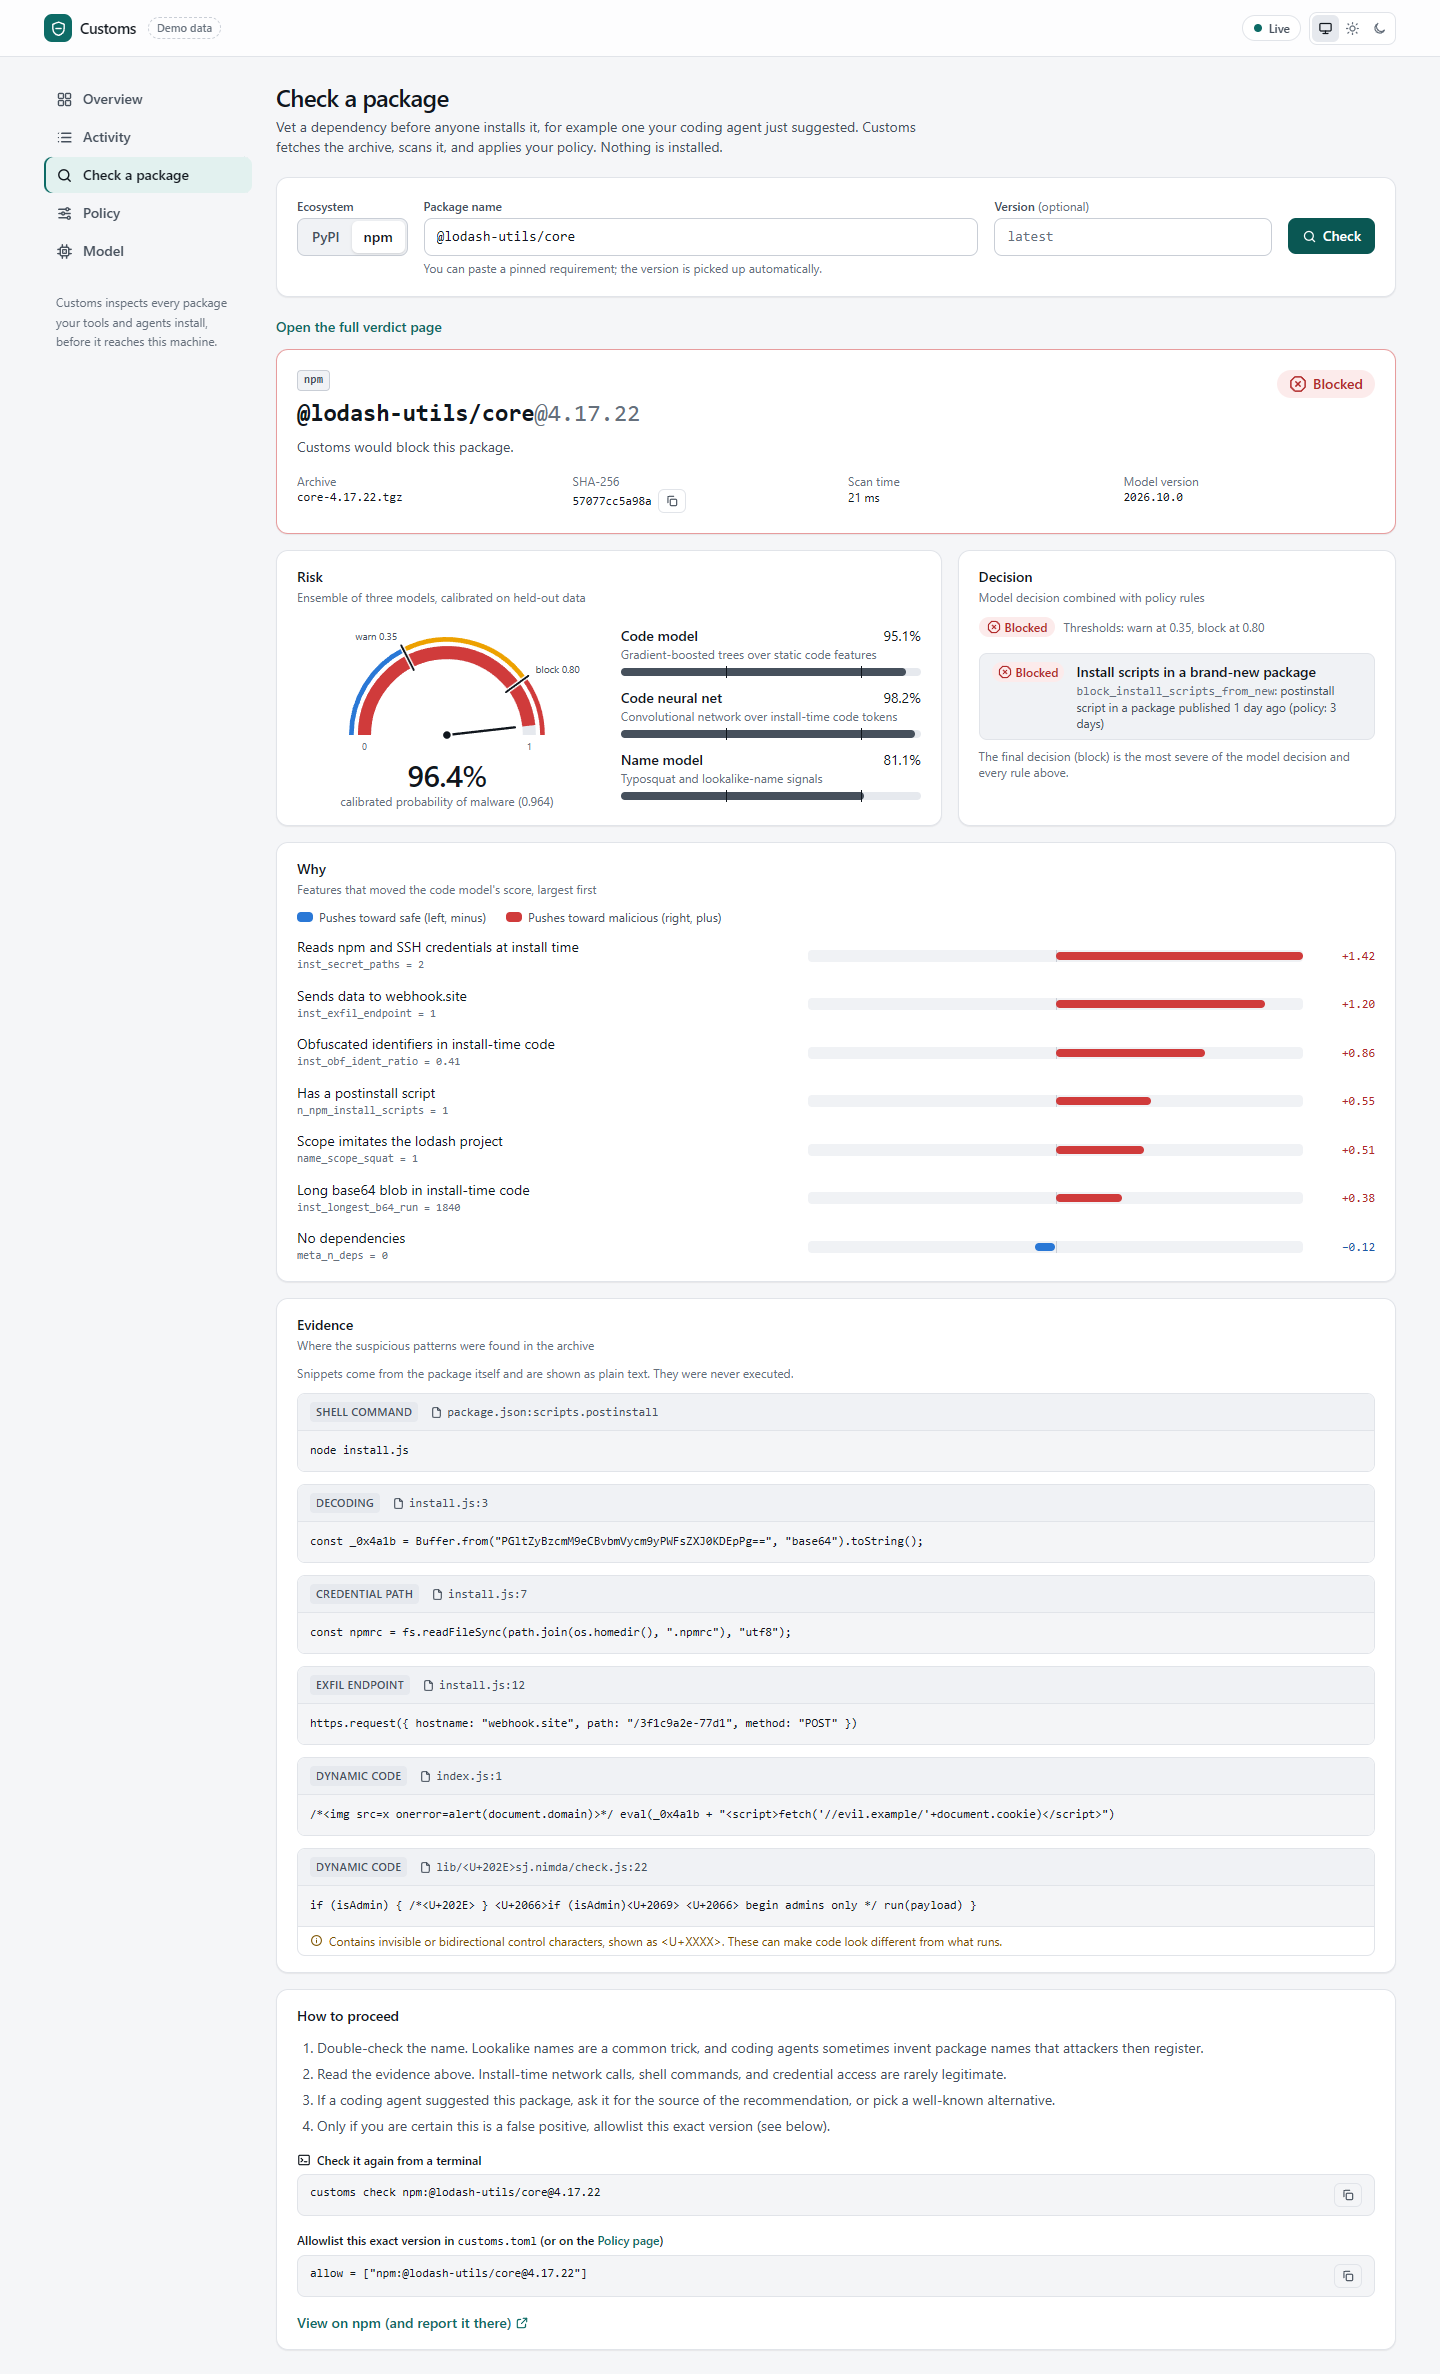
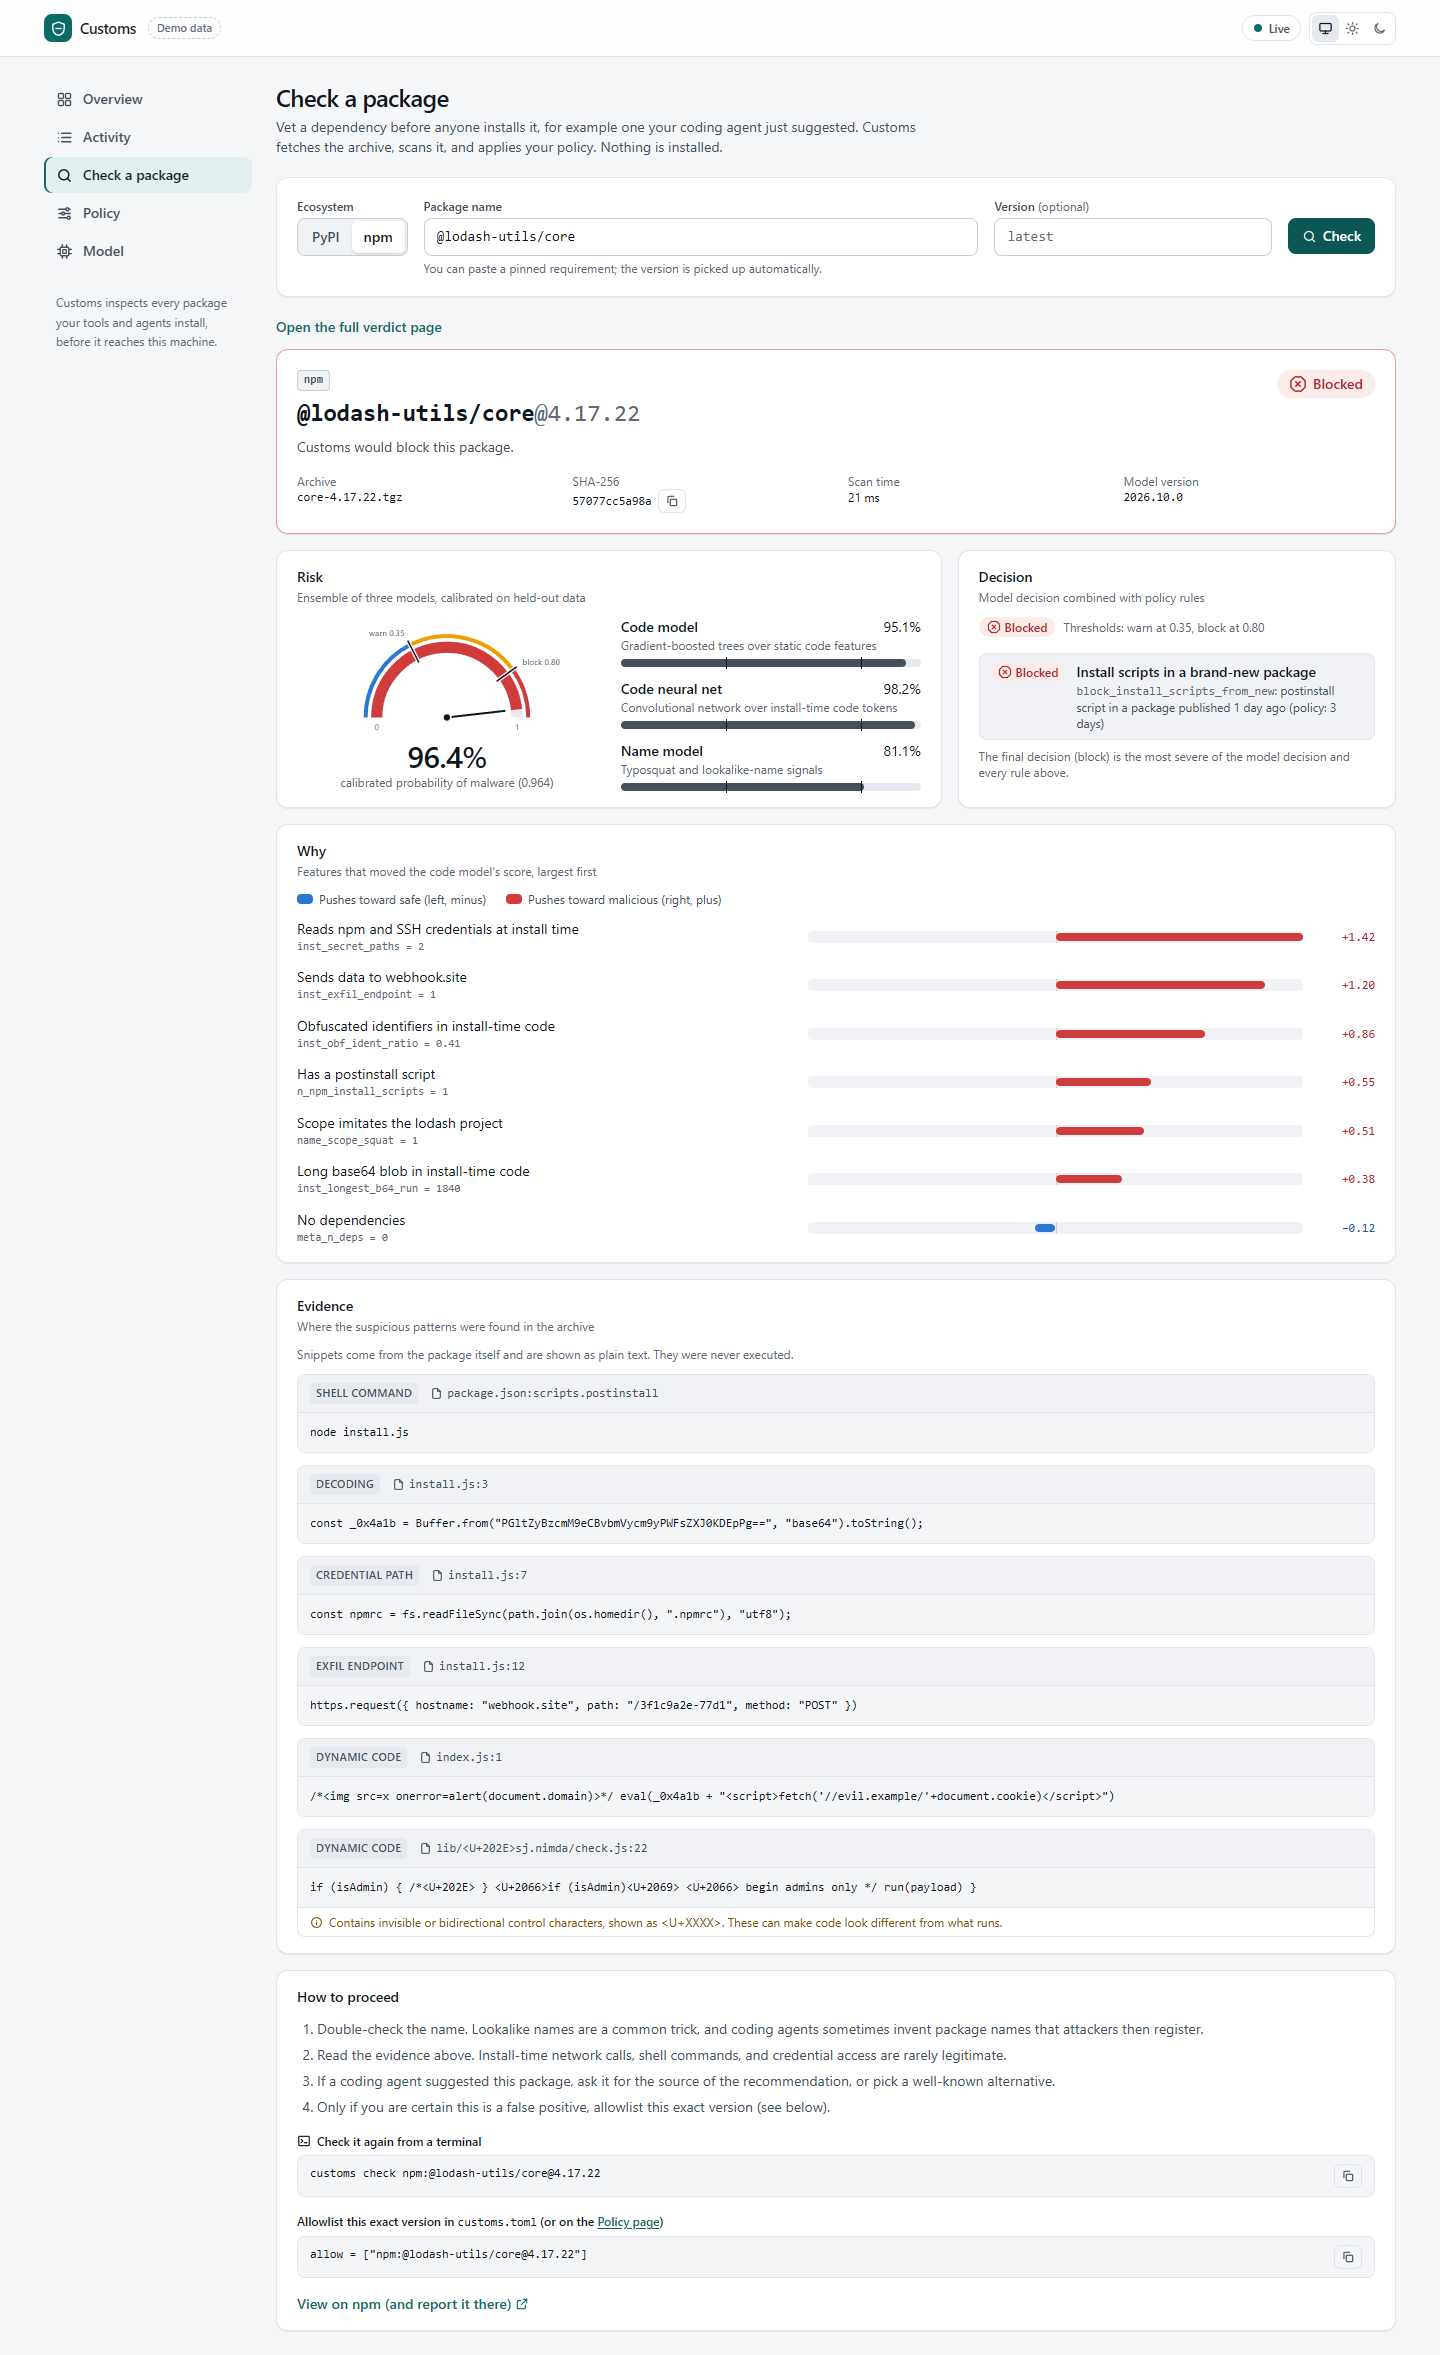
README media: new screenshots and demo GIF from a live customs serve
Screenshots (overview, verdict, check, model, light and dark) and the demo GIF are
recaptured after the dashboard UI changes. live-screenshots.mjs shoots the Check page
instead of Activity, and demo-gif.mjs records the dashboard as timed screencast frames.
The web/screenshots set is regenerated from the e2e spec, and the mock policy-change
address is now TEST-NET-1 (192.0.2.12). README alt text matches what the media shows.

diff --git a/web/src/mock/server.ts b/web/src/mock/server.ts
@@ -111,7 +111,7 @@ export class MockServer {
       {
         id: 1,
         ts: new Date(now - 6 * day).toISOString(),
-        remote: '10.0.4.12',
+        remote: '192.0.2.12',
         client: 'Mozilla/5.0',
         auth: 'token',
         changes: [{ field: 'deny', before: [], after: ['npm:event-stream@3.3.6'] }],
@@ -119,7 +119,7 @@ export class MockServer {
       {
         id: 2,
         ts: new Date(now - 2 * day).toISOString(),
-        remote: '10.0.4.12',
+        remote: '192.0.2.12',
         client: 'Mozilla/5.0',
         auth: 'token',
         changes: [

diff --git a/README.md b/README.md
@@ -25,8 +25,8 @@ dashboard on one port.
 
 <table>
 <tr>
-<td width="50%"><picture><source media="(prefers-color-scheme: dark)" srcset="docs/media/overview-dark.png"><img alt="Overview page: today's installs and checks, the block rate, decisions by ecosystem, and the live feed with a blocked package at the top" src="docs/media/overview-light.png"></picture></td>
-<td width="50%"><picture><source media="(prefers-color-scheme: dark)" srcset="docs/media/verdict-dark.png"><img alt="Verdict page for a blocked malware package: the risk gauge past the block threshold, the rules and model features behind the score, and the install-time code that triggered them" src="docs/media/verdict-light.png"></picture></td>
+<td width="50%"><picture><source media="(prefers-color-scheme: dark)" srcset="docs/media/overview-dark.png"><img alt="Overview page: installs scanned, blocks and possible slopsquats, blocked installs per day, decisions by ecosystem, and the live feed with pip and npm installs, a blocked npm package and two lookups of the made-up name reqeusts" src="docs/media/overview-light.png"></picture></td>
+<td width="50%"><picture><source media="(prefers-color-scheme: dark)" srcset="docs/media/verdict-dark.png"><img alt="Verdict page for colors-helper-utils, an npm package that steals credentials at install time, blocked at a risk above 99.9%: the three model scores, the features behind the score, and the lines of setup.js that triggered them" src="docs/media/verdict-light.png"></picture></td>
 </tr>
 <tr>
 <td width="50%"><picture><source media="(prefers-color-scheme: dark)" srcset="docs/media/check-dark.png"><img alt="Check page: the misspelled name reqeusts is blocked because it does not exist on PyPI" src="docs/media/check-light.png"></picture></td>
@@ -234,9 +234,9 @@ that terminates TLS.
 
 ## Demo
 
-![Walkthrough: pip installs requests through the proxy, customs check blocks the made-up name reqeusts, the dashboard opens a blocked malware verdict with its reasons and code, and the Claude Code hook denies an agent's pip install reqeusts](docs/media/demo.gif)
+![Walkthrough: customs serve starts the firewall; pip installs requests through the proxy; customs check blocks the made-up name reqeusts; npm is refused the credential-stealing package colors-helper-utils; the dashboard opens that verdict with its reasons and code, then the Model page; the Claude Code hook denies an agent's pip install reqeusts](docs/media/demo.gif)
 
-Recorded against a live `customs serve`.
+Recorded against a live `customs serve`. The terminals are real shell sessions with their real output and timing, recorded and rendered frame by frame. `colors-helper-utils` is the inert test package from `python/scripts/demo.sh`, served by a local stand-in for the npm registry; it was never published and its code never ran.
 
 ## How the evaluation avoids fooling itself
 

diff --git a/web/README.md b/web/README.md
@@ -32,7 +32,7 @@ npm run typecheck
 
 Playwright uses its own Chromium (`npx playwright install chromium`). Set `CUSTOMS_CHROMIUM_PATH` to use another Chromium binary. Running `npm run e2e` also refreshes the screenshots in `screenshots/` (every page, light and dark, at 1440px and 390px wide).
 
-Two scripts work against a running `customs serve` instead of the mock: `node scripts/live-screenshots.mjs [baseUrl] [outDir]` takes the screenshots in the top-level README (`docs/media/`, light and dark, real verdicts from the trained models), and `node scripts/demo-gif.mjs [baseUrl] [out.webm]` records the demo.
+Two scripts work against a running `customs serve` instead of the mock: `node scripts/live-screenshots.mjs [baseUrl] [outDir]` takes the screenshots in the top-level README (`docs/media/`, light and dark, real verdicts from the trained models), and `node scripts/demo-gif.mjs [baseUrl] [outDir]` records the dashboard part of the README demo GIF as timed PNG frames (the header of the script has the ffmpeg command that joins and encodes them).
 
 ## Mock API
 
